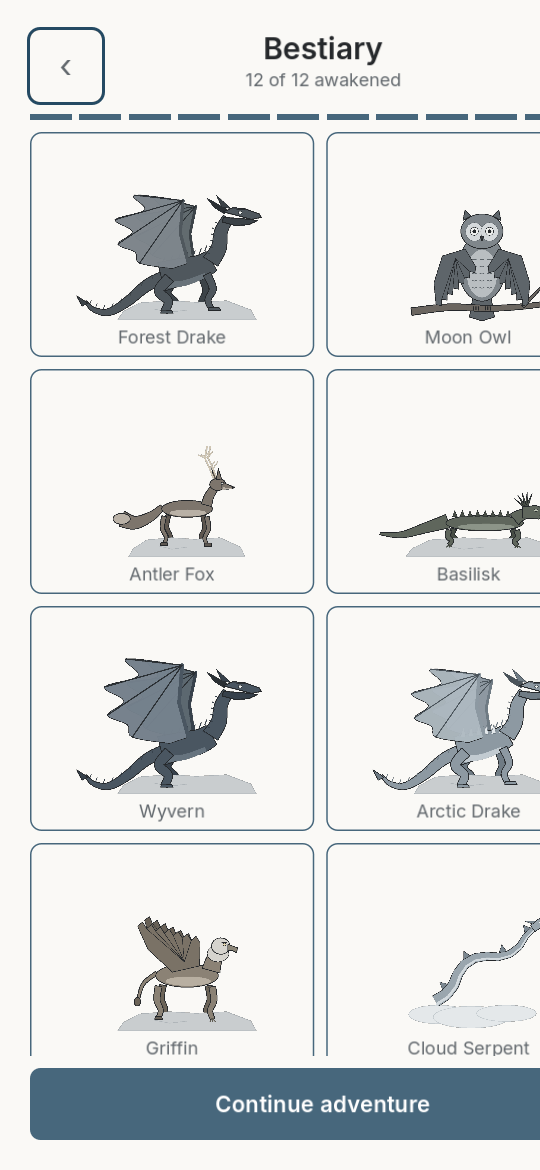
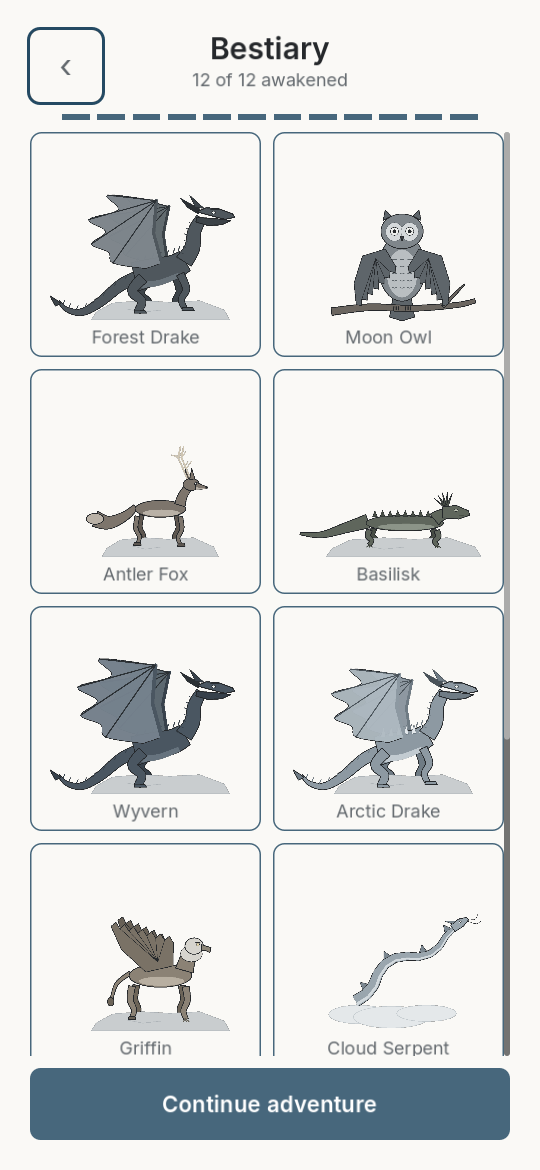
store: Play listing graphics rendered from the game; fix bestiary overflow
- docs/store/: 512x512 icon (32-bit, opaque), 1024x500 feature graphic and
  four 1080x1920 phone screenshots (home, puzzle, awakening, bestiary),
  rendered by tools/capture_store.gd and checked by
  tools/make_store_graphics.sh against Play's size/format rules.
- Fix: with all 12 creatures the bestiary's progress bars needed 782 px and
  pushed the page past a 720 px phone width; bars now shrink to fit.
  New test test_screens_fit_phone_width_with_full_collection (failed at
  862 px before the fix). README bestiary screenshot re-captured.

Claude-Session: https://claude.ai/code/session_01MdmBAL6efdAAdd9HEKAjuW

diff --git a/docs/store/README.md b/docs/store/README.md
@@ -1,0 +1,14 @@
+# Google Play listing graphics
+
+Rebuilt with `tools/make_store_graphics.sh`; the script also checks each file against Play's size and format rules.
+
+| File | Play Console slot | Format | Source |
+|---|---|---|---|
+| `icon_512.png` | App icon | 512×512, 32-bit PNG, opaque | launcher icon artwork (`tools/make_icons.py`), same as the in-app launcher icon |
+| `feature_graphic.png` | Feature graphic | 1024×500, 24-bit PNG | Godot render of the awakening backdrop + Forest Drake rig, title in Inter |
+| `phone_1_home.png` | Phone screenshot 1 | 1080×1920, 24-bit PNG | running game, Home |
+| `phone_2_puzzle.png` | Phone screenshot 2 | 1080×1920, 24-bit PNG | running game, Griffin puzzle 1 with a hint |
+| `phone_3_awakening.png` | Phone screenshot 3 | 1080×1920, 24-bit PNG | running game, Forest Drake awakening (~3 s in) |
+| `phone_4_bestiary.png` | Phone screenshot 4 | 1080×1920, 24-bit PNG | running game, Bestiary with all 12 creatures (unlocked through the real progression rules) |
+
+The screenshots are unedited frames of the game (`tools/capture_store.gd`): no added captions, device frames or mock-ups.
